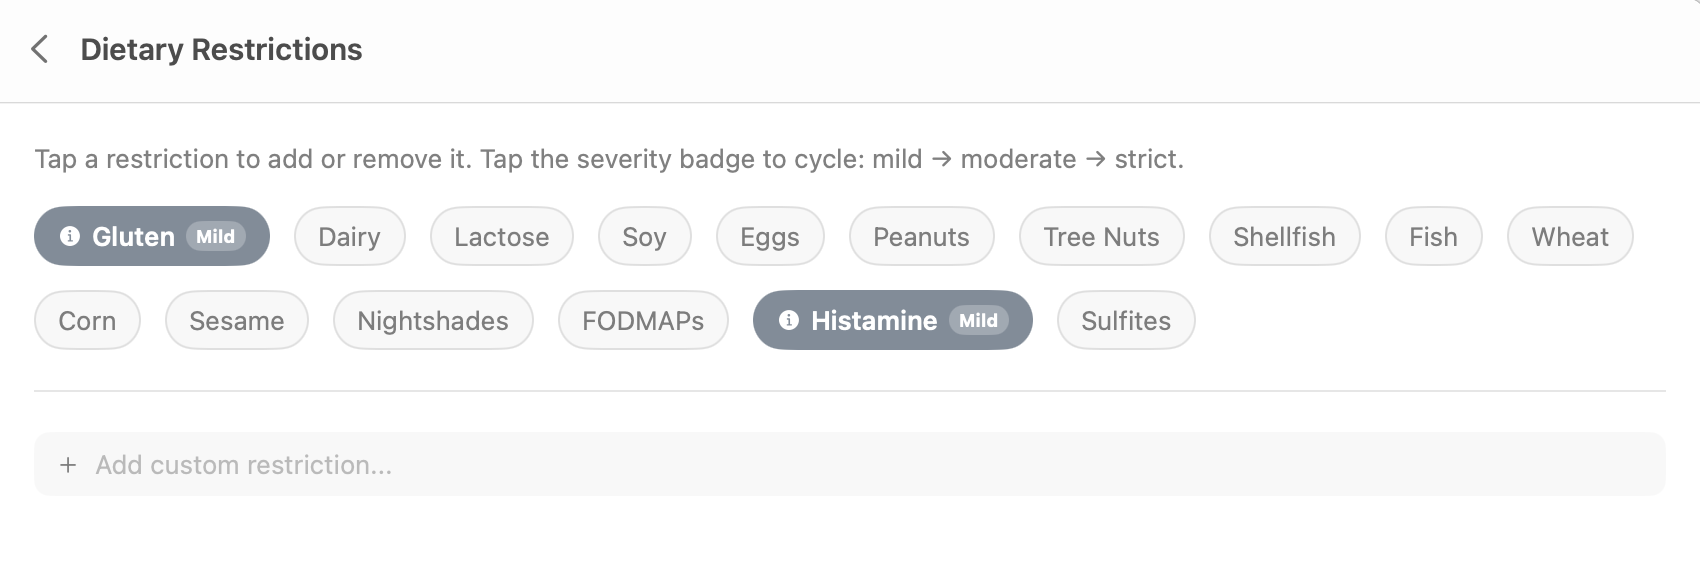
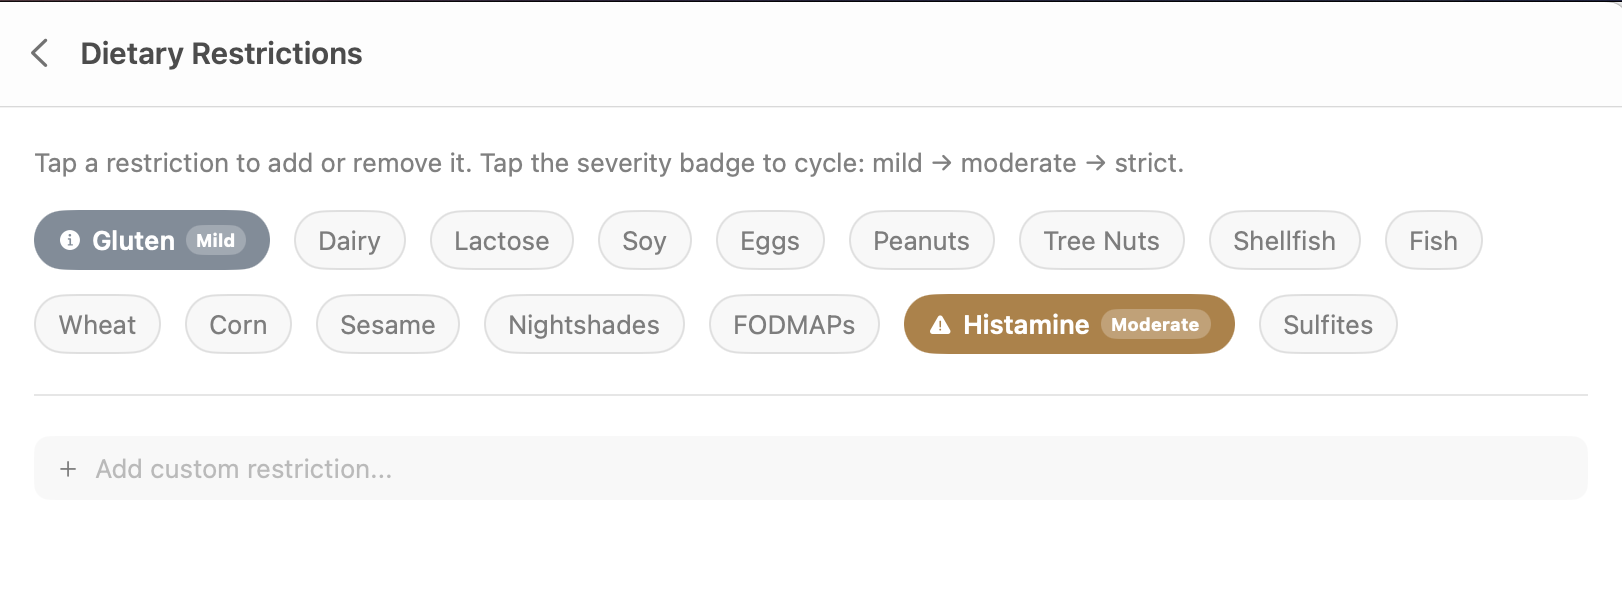
Replace restrictions screenshot showing two severity levels

diff --git a/index.html b/index.html
@@ -332,7 +332,7 @@
     <!-- Step 2: Dietary Restrictions -->
     <section class="feature reverse">
         <div class="feature-screenshot">
-            <img src="images/screenshot-restrictions.png" alt="Dietary restrictions view showing chips for common restrictions like Gluten, Dairy, and Histamine with severity badges for mild, moderate, or strict">
+            <img src="images/screenshot-restrictions.png" alt="Dietary restrictions view showing Gluten set to Mild and Histamine set to Moderate, demonstrating different severity levels across 16 common restrictions">
         </div>
         <div class="feature-text">
             <span class="step">Step 2</span>
